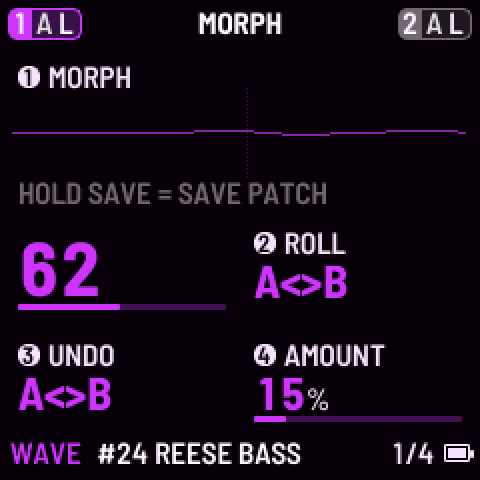
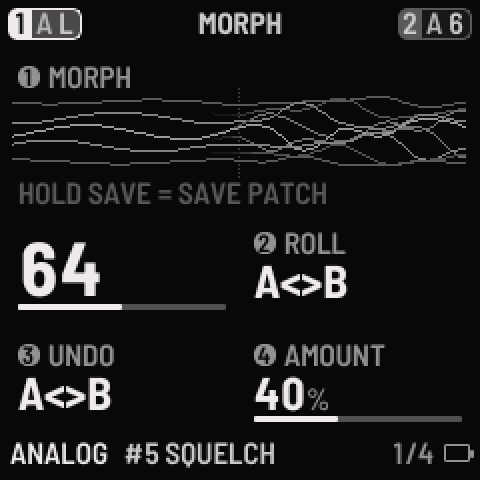
Screenshots: AUTO TIDE, TIDE SETTINGS and MORPH rendered from the current firmware (2x), captions follow

diff --git a/felucca-base/web/landing.html b/felucca-base/web/landing.html
@@ -72,15 +72,15 @@
       <p>The glide runs from A to B and back, never quite the same way twice. It is made for playing the FM-1 as a background: nothing has to be managed live, and a hand on the knob can take over at any time. The pattern can glide with the sound.</p>
       <div class="shots">
         <figure class="shot">
-          <img src="img/auto-tide-both-parts.png" width="240" height="240" alt="The AUTO TIDE page of the FM-1 with both parts: JRNY, 16 bars, wait 2 bars, the sound and sequence faders of parts 1 and 2 at B." loading="lazy">
+          <img src="img/auto-tide-both-parts.png" width="240" height="240" alt="The AUTO TIDE page of the FM-1 with both parts gliding: WNDR to B, the sound and sequence faders of parts 1 and 2 in two columns, 16 bars, wait 2 bars." loading="lazy">
           <figcaption><b>AUTO TIDE</b>The glide's state on knob 1's line, with both parts. MODE, TIME and WAIT are on knobs 2 to 4.</figcaption>
         </figure>
         <figure class="shot">
-          <img src="img/morph-settings.png" width="240" height="240" alt="The TIDE SETTINGS page: target both, vary bars 4 plus 8, roll music, arp, pitch, wash level." loading="lazy">
+          <img src="img/morph-settings.png" width="240" height="240" alt="The TIDE SETTINGS page: style, target both, vary bars 4 plus 8, roll music, arp, pitch." loading="lazy">
           <figcaption><b>TIDE SETTINGS</b>What the tide moves and how a new End B is made.</figcaption>
         </figure>
         <figure class="shot">
-          <img src="img/morph-gliding.png" width="240" height="240" alt="The MORPH page while a tide plays, with the fader at 62." loading="lazy">
+          <img src="img/morph-gliding.png" width="240" height="240" alt="The MORPH page while a tide plays, with the fader at 64." loading="lazy">
           <figcaption><b>MORPH, mid-glide</b>DUELL's own MORPH page follows the glide, so you see where the sound is between A and B.</figcaption>
         </figure>
       </div>

diff --git a/README.md b/README.md
@@ -33,10 +33,10 @@ It is made for playing the FM-1 as a **background**: set a tide going, then play
 
 | AUTO TIDE | TIDE SETTINGS | MORPH, mid-glide |
 |:---:|:---:|:---:|
-| <img src="docs/tide/auto-tide-both-parts.png" width="260" alt="AUTO TIDE page with both parts: JRNY, 16 BARS, WAIT 2 BARS, the SOUND and SEQ faders of parts 1 and 2 at B"> | <img src="docs/tide/morph-settings.png" width="260" alt="TIDE SETTINGS page: TARGET BOTH, VARY BARS 4 + 8, ROLL MUSIC, ARP, PITCH, WASH LEVEL"> | <img src="docs/tide/morph-gliding.png" width="260" alt="MORPH page while a tide plays: the fader at 62"> |
-| The glide's state on knob 1's line (here *paused: PLAY goes on*), with both parts: each part's SOUND and SEQ fader, its steps as they play and the sound it has travelled to, and MODE / TIME / WAIT on knobs 2 to 4. | What the tide moves and how a new End B is rolled. Knob 1 picks the row, OCT+ / OCT- change it. | DUELL's own MORPH page follows the glide, so you see where the sound is between A and B. |
+| <img src="docs/tide/auto-tide-both-parts.png" width="260" alt="AUTO TIDE page with both parts gliding: WNDR to B, the SOUND and SEQ faders of parts 1 and 2 in two columns, both parts' steps, MODE WNDR, TIME 16 bars, WAIT 2 bars"> | <img src="docs/tide/morph-settings.png" width="260" alt="TIDE SETTINGS page: STYLE, TARGET BOTH, VARY BARS 4 + 8, ROLL MUSIC, ARP, PITCH; the rest of the rows scroll below"> | <img src="docs/tide/morph-gliding.png" width="260" alt="MORPH page while a tide plays: the fader at 64, ROLL, UNDO and AMOUNT 40 %"> |
+| The glide's state on knob 1's line (here *WNDR to B*), with both parts: the SOUND and SEQ faders in two columns, a row per part, each part's steps as they play and the sounds they have travelled to, and MODE / TIME / WAIT on knobs 2 to 4. | STYLE on top, then what the tide moves and how it changes. Knob 1 picks the row, OCT+ / OCT- change it. | DUELL's own MORPH page follows the glide, so you see where the sound is between A and B. |
 
-*Screenshots from the [web emulator](https://pssdrnk-cmyk.github.io/DUELL-TIDE/emu/).*
+*Screens rendered from the firmware's own drawing code (GREY palette); try them live in the [web emulator](https://pssdrnk-cmyk.github.io/DUELL-TIDE/emu/).*
 
 ## Play a tide in four steps
 
